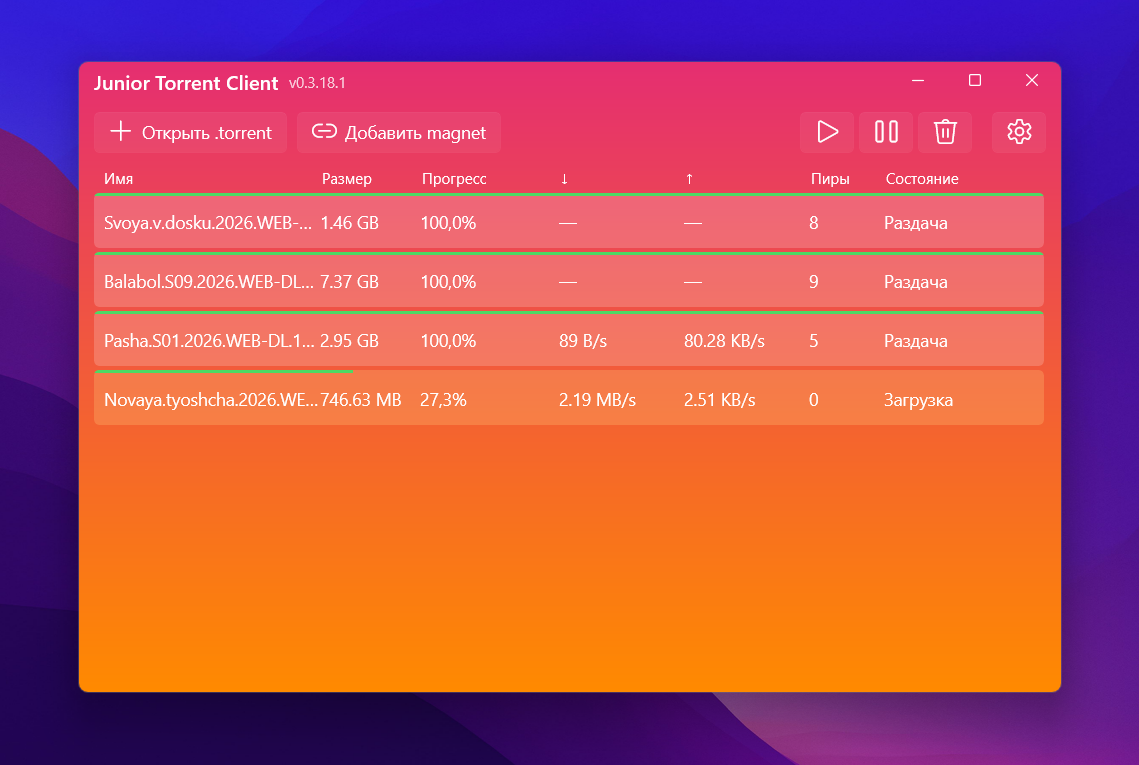
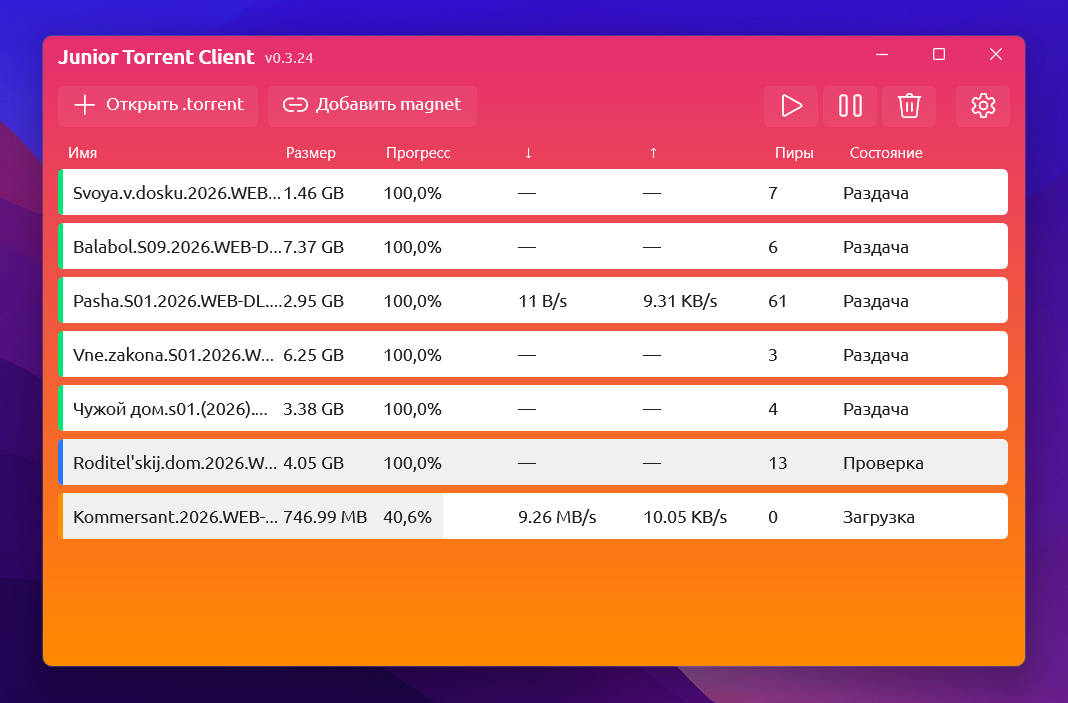
docs: refresh README screenshot + describe new plashka rendering
Screenshot now shows v0.3.25 UI with the neon status stripe and Ubuntu
font. Feature bullets updated: the "thin top progress bar" description
no longer matches — progress is a full-plashka fill, state is a 4px
left-edge stripe.

diff --git a/README.md b/README.md
@@ -21,8 +21,8 @@
 - Single-instance: второй запуск (например, из «Открыть с помощью») не плодит второе окно, а передаёт файл в уже открытое приложение
 - Полностью русский интерфейс
 - Собственный градиентный вид: pink → orange, стрелки логотипа продолжаются в цветовой палитре окна
-- Подсветка строк по состоянию (скачивание / раздача / проверка / пауза / ошибка)
-- Прогресс-бар в виде тонкой верхней грани каждой строки — растёт зелёным по мере скачивания
+- Индикатор состояния — 4px неоновая полоса на левом краю каждой плашки (ожидание / загрузка / раздача / проверка / ошибка)
+- Прогресс — заливка всей плашки на нужную долю ширины, шрифт Ubuntu на весь интерфейс
 
 ## Установка
 